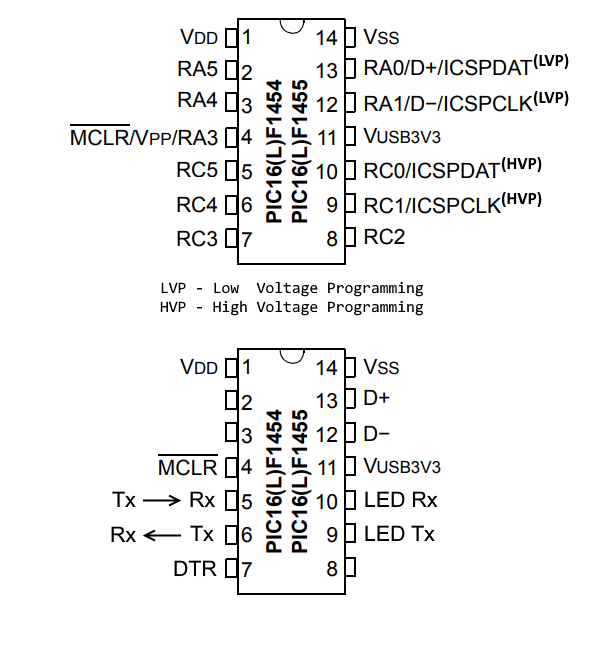
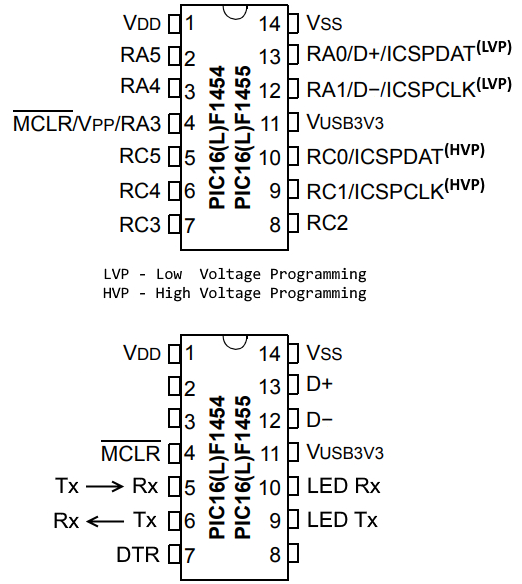
Updated pic and readme

Changed region(s): [[0.0, 0.0, 0.9808, 1.0]]

diff --git a/README.md b/README.md
@@ -1,2 +1,18 @@
-# PIC16F145x_USB2Serial
-PIC16F1454/5/9 USB to Serial MPLAB X Project
+# PIC16F145x USB2Serial
+PIC16F1454/5/9 USB to Serial MPLAB X Project, Arduino ready, and is similar to the FTDI FT232RL. The code is fully compliant with USB standards and runs in full speed USB 2.0. 
+## Configurability
+- Optinal LEDs for transmission and receiving status from the UART
+- Can be powered from 3.3v or 5v
+- Easy pins configurability
+- Enable/Disable CDC control lines
+  * RTS - request to send
+  * CTS - clear to send
+  * DTR - data terminal ready
+  * DSR - data set ready
+## Code Info
+* USB and UART code generated from MPLAB Code Configurator
+* CDC code from [Microchip Libraries for Applications](https://www.microchip.com/mplab/microchip-libraries-for-applications) v2018-11-26
+## 14 DIP/TSSOP Pinout
+![123](https://github.com/Calcousin55/PIC16F145x_USB2Serial/blob/master/PIC16F145x%20Pinout.png?raw=true)
+
+
